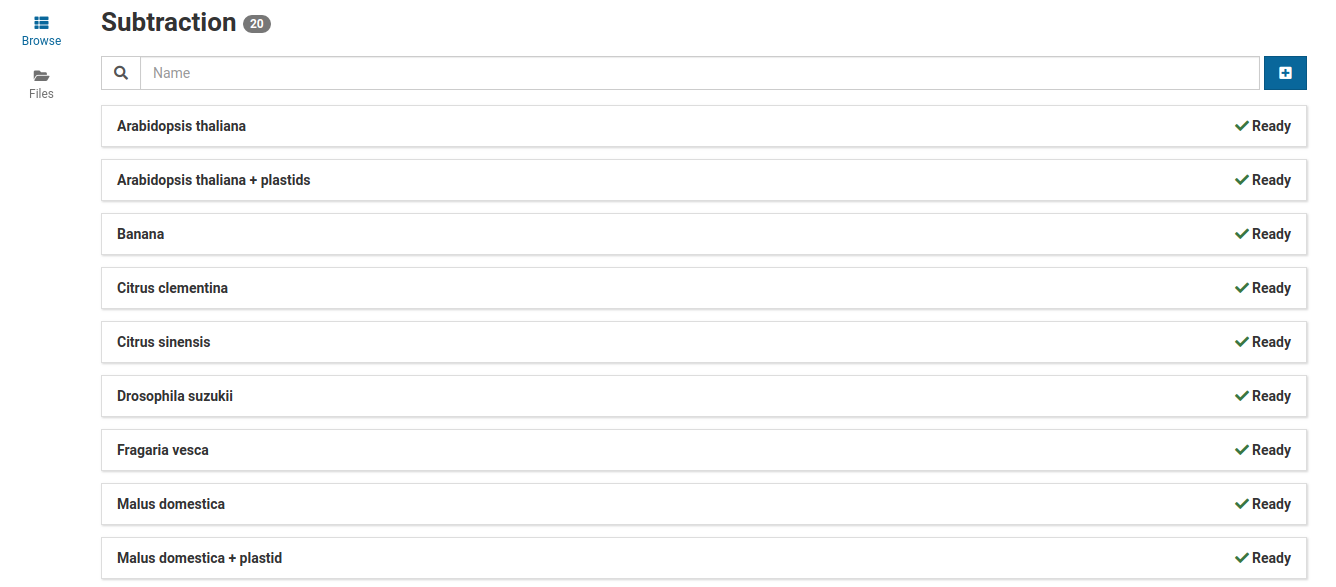
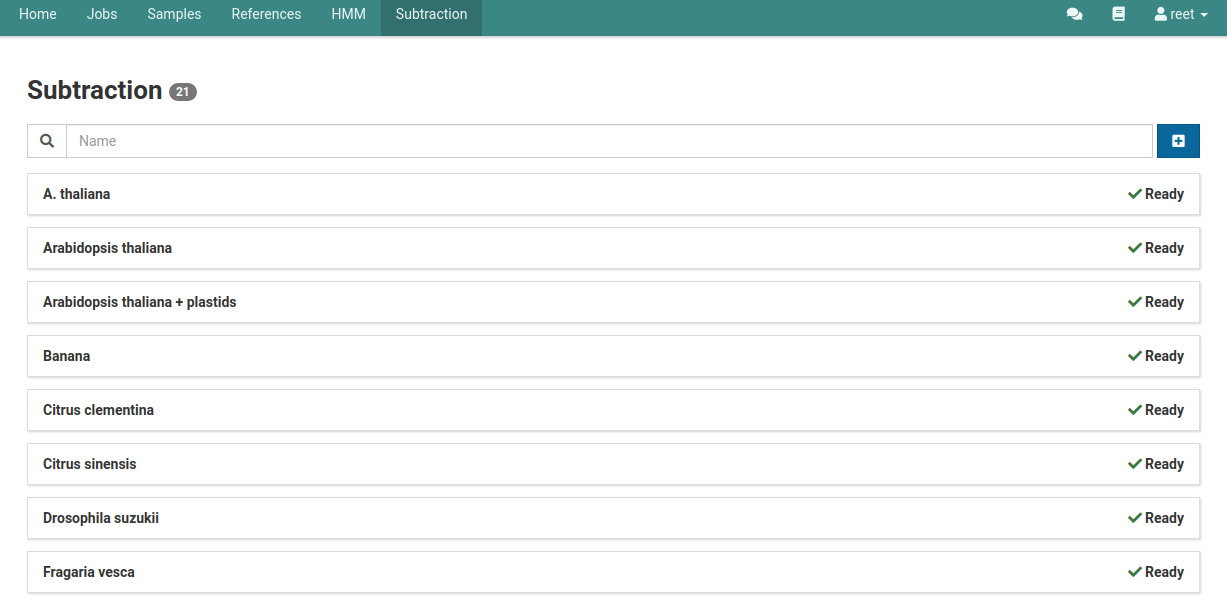
Edits made to Subtraction-User-Guide
Screenshots before/after editing have been added; screenshots of record list before/after deletion have been added. Screenshots have been re-taken so the images should look less pixelated.

Changed region(s): [[0.0, 0.092, 0.991, 1.0], [0.0, 0.0, 1.0, 0.092], [0.9291, 0.092, 0.991, 0.1533]]

diff --git a/content/docs/manual/ug_subtraction/index.md b/content/docs/manual/ug_subtraction/index.md
@@ -53,22 +53,31 @@ View detailed information about the subtraction by clicking on it. As you use th
 
 # Edit a Subtraction
 
+Click on _Subtraction_ in the main navigational bar and click on the subtraction you would like to edit.
+![Overview of Subtraction](edit1.png)
+
 Click on the pencil icon on the subtraction details page to bring up the _Edit Subtraction_ dialog box. 
 ![Edit a Subtraction](edit.png)
 
 Once a subtraction is made, the Unique Name and File cannot be changed. You are however, allowed to change the nickname of the subtraction.
 ![Nickname Added](cabbage.png)
 
+The edits made on the subtraction will show up on the subtraction details page.
+![Edits Shown on Subtractions Detail Page](text_filled.png)
+
 # Delete a Subtraction
 
-Select the subtraction that you wish to delete. 
+Click on _Subtraction_ in the main navigational bar and click on the subtraction that you wish to delete. 
 ![Subtraction Overview](subtraction_overview.png)
 
-A subtraction can be deleted by clicking on the red trash can icon on the subtraction details page. 
+To delete the subtraction click on the red trash can icon on the subtraction details page. 
 ![Delete Subtraction](red_trash_can.png)
 
 A dialog box will then pop up to confirm the deletion; select **Confirm**.
 ![Confirm Deletion of Subtraction](confirm.png)
+
+After confirming the deletion of a subtraction, it will no longer be shown on the subtraction overview page. 
+![Post Deletion](post_deletion.png)
 
 Once you start using subtractions in samples and they become _Linked Samples_, you will not be able to delete the subtraction.
 ![Linked Samples](linked.png)
